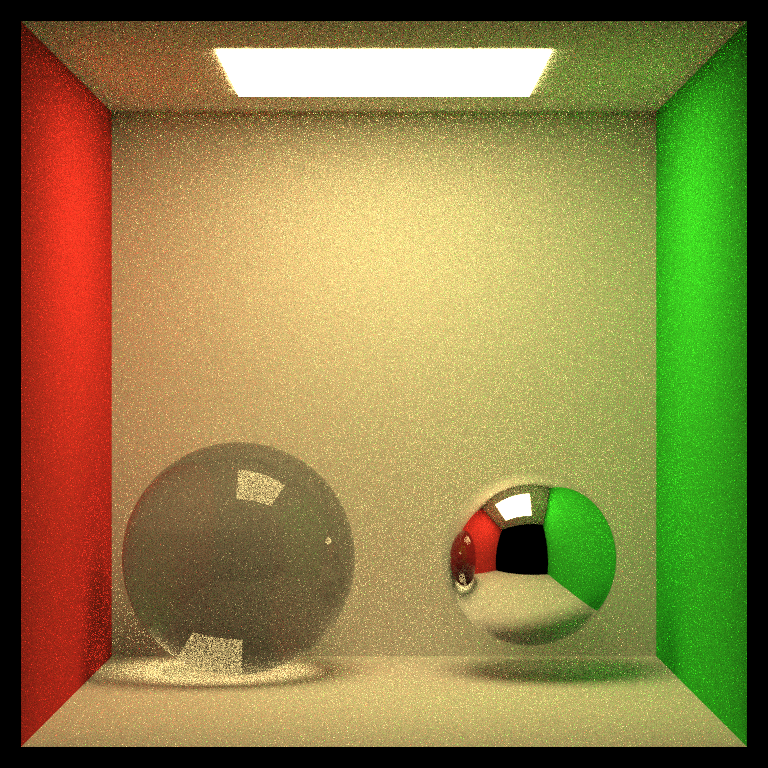
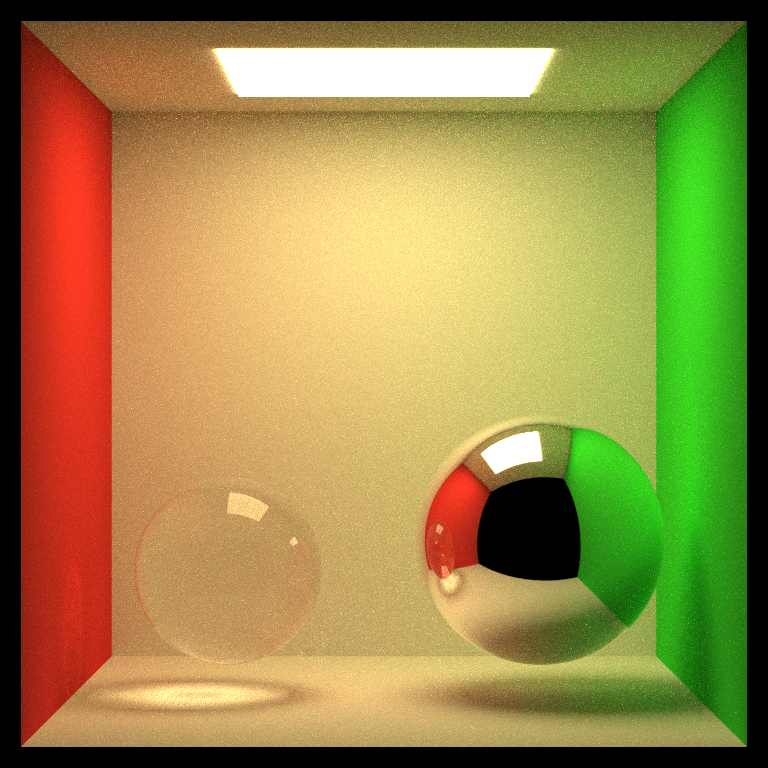
refraction isn't good...

diff --git a/src/material/Dielectric.cpp b/src/material/Dielectric.cpp
@@ -4,26 +4,39 @@ namespace mypt {
 
 bool Dielectric::scatter(
     const Ray& r_in, HitRecord& rec, ScatterRecord& srec
-) const {
+) const  {
     srec.is_specular = true;
-    srec.pdf = nullptr;
+    srec.pdf = 0;
     srec.attenuation = albedo;
-    double refraction_ratio = (rec.front_face) ? (1.0 / ref_idx) : (ref_idx);
-
-    vec3 unit_direction = normalize(r_in.direction());
-    double cos_theta = ffmin(dot(-unit_direction, rec.normal), 1.0);
-    double sin_theta = sqrt(1.0 - cos_theta*cos_theta);
-    vec3 direction;
-    // Decide out going direction stochastically with frenel approximation
-    double reflect_prob = schlick(cos_theta, refraction_ratio);
-    if(refraction_ratio * sin_theta > 1.0 || random_double() < reflect_prob) {
-        direction = reflect(unit_direction, rec.normal);
+    vec3 outward_normal;
+    vec3 reflected = reflect(r_in.direction(), rec.normal);
+    vec3 refracted;
+    float ni_over_nt;
+    float cosine;
+    bool into;
+    if(dot(r_in.direction(), rec.normal) > 0) {
+        into = true;
+        outward_normal = -rec.normal;
+        ni_over_nt = ref_idx;
+        cosine = ref_idx * dot(r_in.direction(), rec.normal) / r_in.direction().length();
+    } else {
+        into = false;
+        outward_normal = rec.normal;
+        ni_over_nt = 1.0 / ref_idx;
+        cosine = -dot(r_in.direction(), rec.normal) / r_in.direction().length();
     }
-    else {
-        direction = refract(unit_direction, rec.normal, refraction_ratio);
+    
+    float reflect_prob;
+    if(refract(r_in.direction(), outward_normal, ni_over_nt, refracted, into)) {
+        reflect_prob = schlick(cosine, ref_idx);
+    } else {
+        reflect_prob = 1.0f;
     }
-    srec.specular_ray = Ray(rec.p, direction, r_in.time());
+    if(random_double() < reflect_prob) {
+        srec.specular_ray = Ray(rec.p, reflected);
+    } else {
+        srec.specular_ray = Ray(rec.p, refracted);
+    }
     return true;
 }
-
 }

diff --git a/src/core/vec3.h b/src/core/vec3.h
@@ -39,6 +39,10 @@ public:
         z += v.z;
         return *this;
     }
+
+    type3& operator-=(const type3 &v) {
+        return *this += (-v);
+    }
     
     type3& operator*=(const Type t) {
         x *= t;
@@ -188,11 +192,16 @@ inline vec3 reflect(const vec3& v, const vec3& n) {
     return v - 2*dot(v,n) * n;
 }
 
-inline vec3 refract(const vec3& uv, const vec3& n, double etai_over_etat) {
-    auto cos_theta = dot(-uv, n);
-    vec3 r_out_parallel = etai_over_etat * (uv + cos_theta * n);
-    vec3 r_out_perp = -sqrt(1.0 - r_out_parallel.length_squared()) * n;
-    return r_out_parallel + r_out_perp;
+inline bool refract(const vec3& v, const vec3& n, double ni_over_nt, vec3& refracted, bool into) {
+    vec3 uv = normalize(v);
+    float dt = dot(v, n);
+    float discriminant = 1.0 - ni_over_nt*ni_over_nt*(1.0-dt*dt);
+    if(discriminant >= 0) {
+        // refracted = ni_over_nt*(uv-n*dt) - n*sqrt(discriminant);
+        refracted = normalize(v*ni_over_nt - n*(into ? 1.0 : -1.0) * (dt*ni_over_nt + sqrt(discriminant)));
+        return true;
+    }
+    return false;
 }
 
 }

diff --git a/src/core/Scene.cpp b/src/core/Scene.cpp
@@ -246,6 +246,7 @@ void Scene::createPrimitive(std::ifstream& ifs) {
                     else if(header == "ior")
                         iss >> ior;
                 }
+                std::cout << ior << std::endl;
                 mat = std::make_shared<Dielectric>(color, ior);
             }
             else if(type == "normal") {
